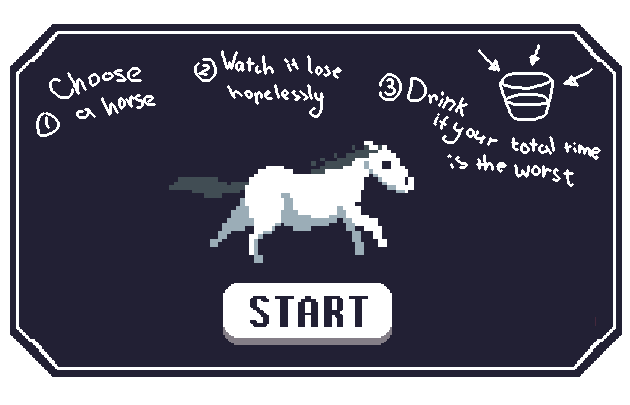
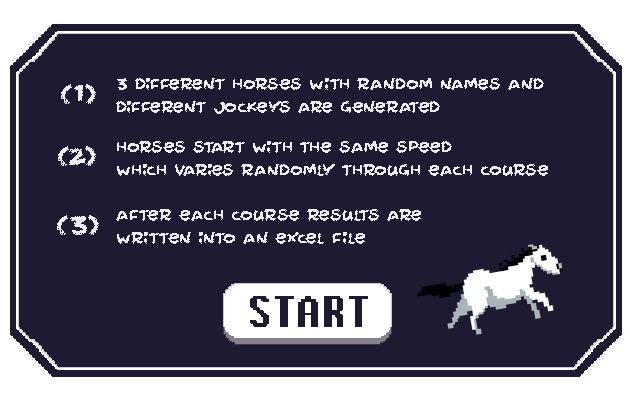
Amazing Race:  -writing results to excel table implemented

diff --git a/horse_race/write_to_xl.py b/horse_race/write_to_xl.py
@@ -1,0 +1,59 @@
+import xlwt
+import xlrd
+from xlutils.copy import copy
+
+
+class RecordResults:
+    def __init__(self, date=None, name=None, time=None, iswinner=None):
+
+        self.date = date
+        self.name = name
+        self.time = time
+        if iswinner == True:
+            self.iswinner = "WINNER"
+        else:
+            self.iswinner = "LOSER"
+
+
+        def read_book():
+            try:
+                book = xlrd.open_workbook("races_book.xls")
+            except FileNotFoundError:
+                book = xlwt.Workbook()
+                sheet = book.add_sheet("All_races")
+                book.save("races_book.xls")
+                book = xlrd.open_workbook("races_book.xls")
+
+            return book
+
+        book_to_read = read_book()
+
+        def get_empty_row(book):
+            sheet = book.sheet_by_index(0)
+            return sheet.nrows
+
+        row_write_number = get_empty_row(book_to_read)
+
+        book_to_write = copy(book_to_read)
+
+        sheet_to_write = book_to_write.get_sheet(0)
+
+        try:
+            for i in range(4):
+                if i == 0:
+                    sheet_to_write.write(row_write_number, i, self.date)
+                if i == 1:
+                    sheet_to_write.write(row_write_number, i, self.name)
+                if i == 2:
+                    sheet_to_write.write(row_write_number, i, self.time)
+                if i == 3:
+                    sheet_to_write.write(row_write_number, i, self.iswinner)
+
+            book_to_write.save('races_book.xls')
+            print("Input recorded successfully")
+        except:
+            print("Something went wrong. Record was not saved.")
+
+
+
+

diff --git a/horse_race/AmazingRace.py b/horse_race/AmazingRace.py
@@ -3,6 +3,8 @@ import time
 import datetime
 #from horse_names import HorseScraper
 
+from write_to_xl import RecordResults as write_result
+
 import os
 
 os.environ['PYGAME_HIDE_SUPPORT_PROMPT'] = "hide"
@@ -56,7 +58,7 @@ bg = pygame.image.load("img/track.jpeg")
 
 win = pygame.display.set_mode((scr_width, scr_height))
 
-pygame.display.set_caption("Horse track")
+pygame.display.set_caption("Amazing Race")
 
 race_ended = False
 
@@ -188,7 +190,17 @@ class Race:
 
         all_races.append(self.finish_time)
         print(f'And the winner is - {top_time[0]} with the top time of {top_time[1]} seconds!\r\n')
+        for i in horses:
+            if i[1].name == top_time[0]:
+                i[1].winner = True
 
+        pygame.time.delay(2000)
+
+        for horse in horses:
+            for result in self.finish_time:
+                if horse[1].name == result[0]:
+                    write_result(str(self.start_time), horse[1].name, result[1], horse[1].winner)
+                    horse[1].winner = False
 
 menu = True
 
